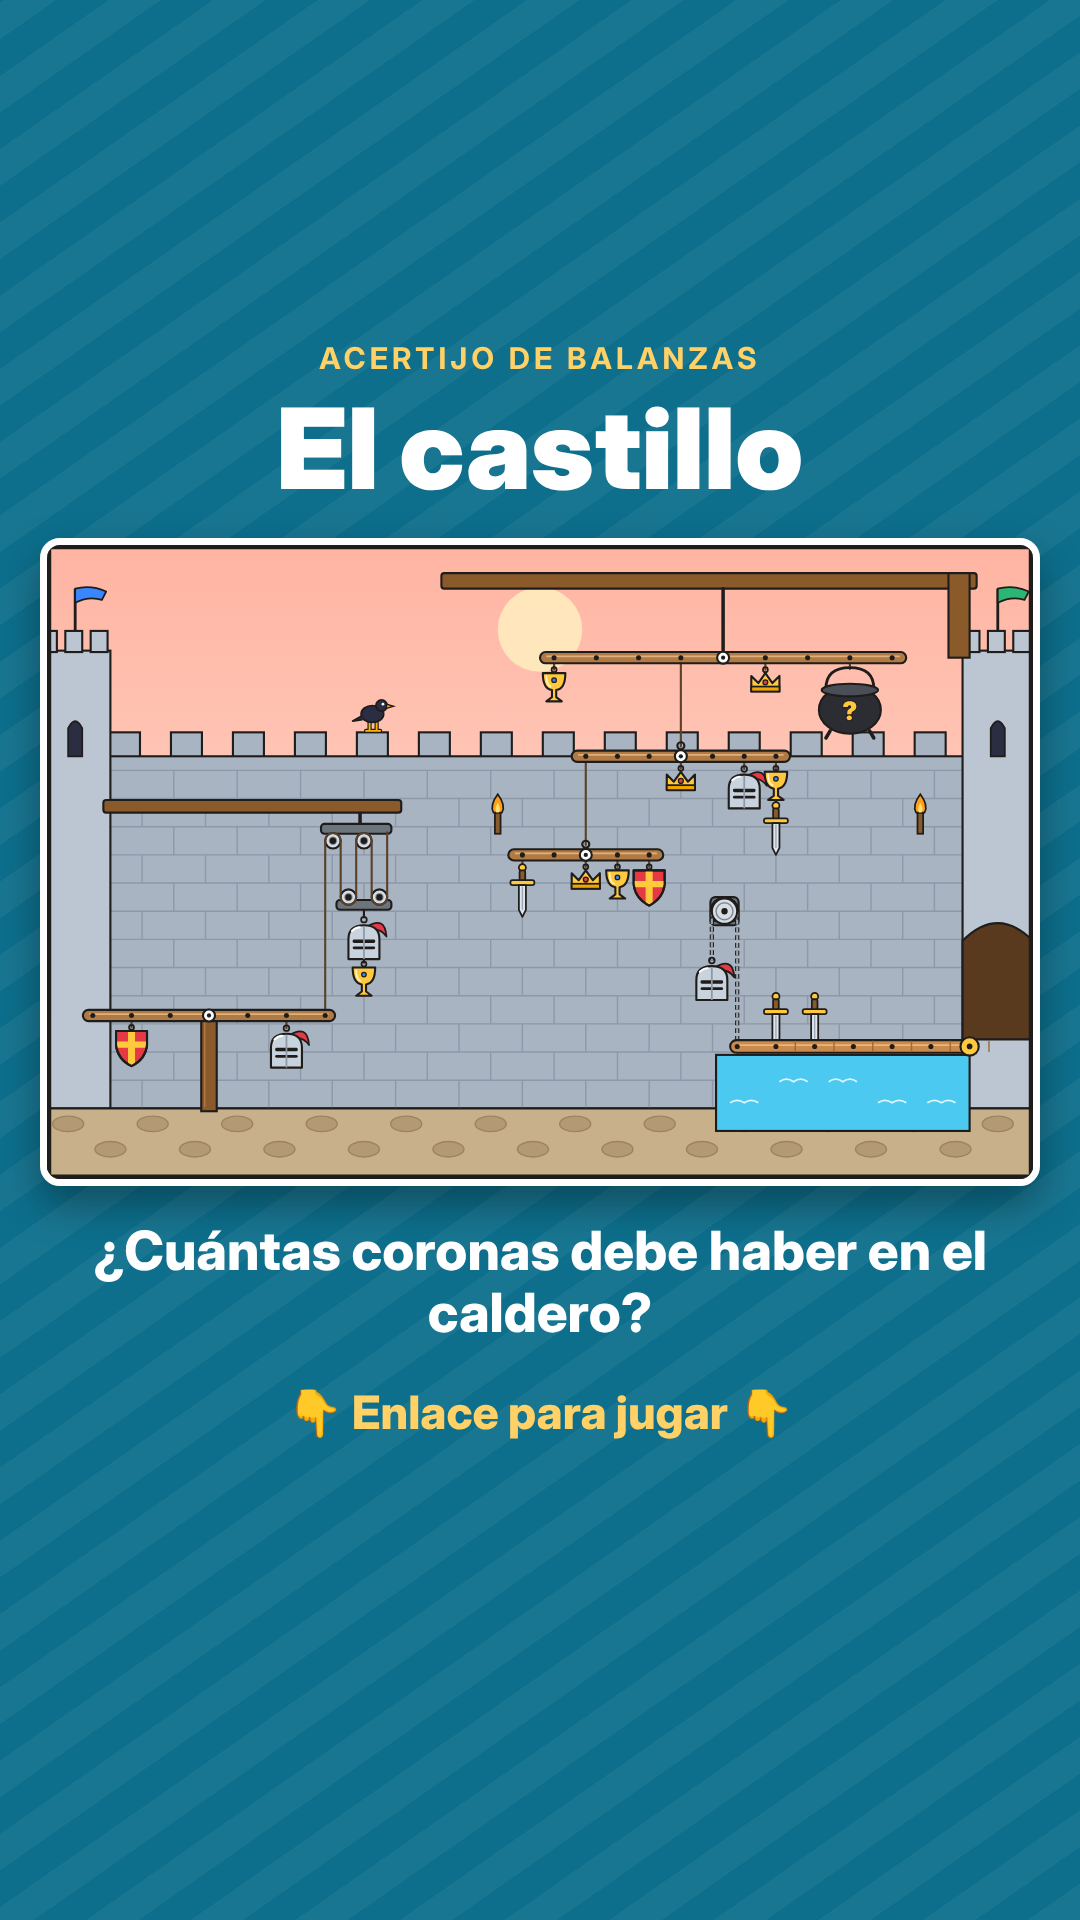
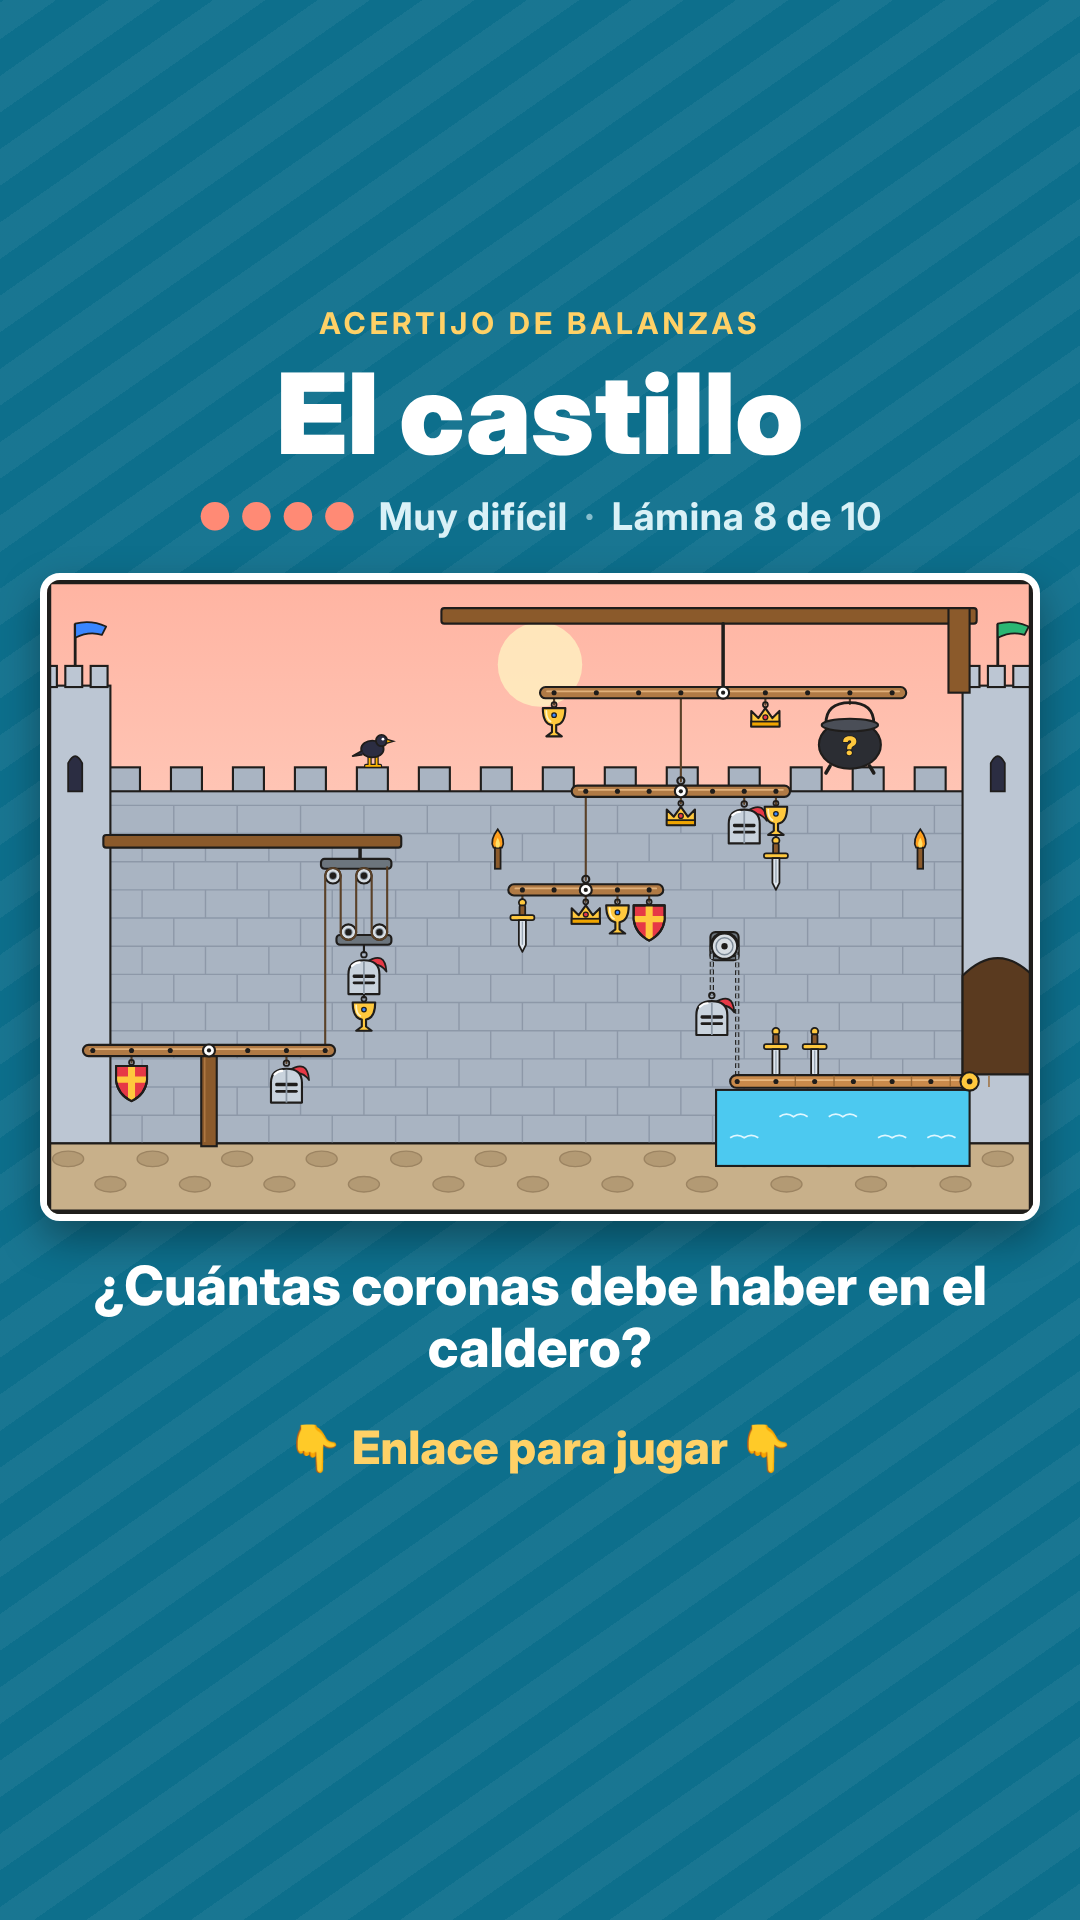
Balanzas: la imagen de estado muestra la dificultad y el número de lámina (castillo)
Claude-Session: https://claude.ai/code/session_01LChMAmfrCk4Q8e5MhbAw7U

Changed region(s): [[0.0306, 0.1562, 0.9778, 0.7812]]

diff --git a/juego/balanzas/generador/generar.py b/juego/balanzas/generador/generar.py
@@ -102,6 +102,7 @@ def main():
     for P in PUZLES:
         tarjetas.append(dict(svg=P["svg"], titulo=P["titulo"], kicker="Acertijo de balanzas",
                              texto=P["pregunta"], pregunta=P["pregunta"], url=base + P["id"] + "/",
+                             dificultad="Muy difícil", puntos=4, lamina=f"Lámina {P['num']} de {len(PUZLES)}",
                              preview=f"../{P['id']}/preview.jpg", estado=f"../{P['id']}/estado.png"))
     with open(os.path.join("svg", "teoria.svg"), "w", encoding="utf-8") as fh:
         fh.write(teoria.fig_plano())
